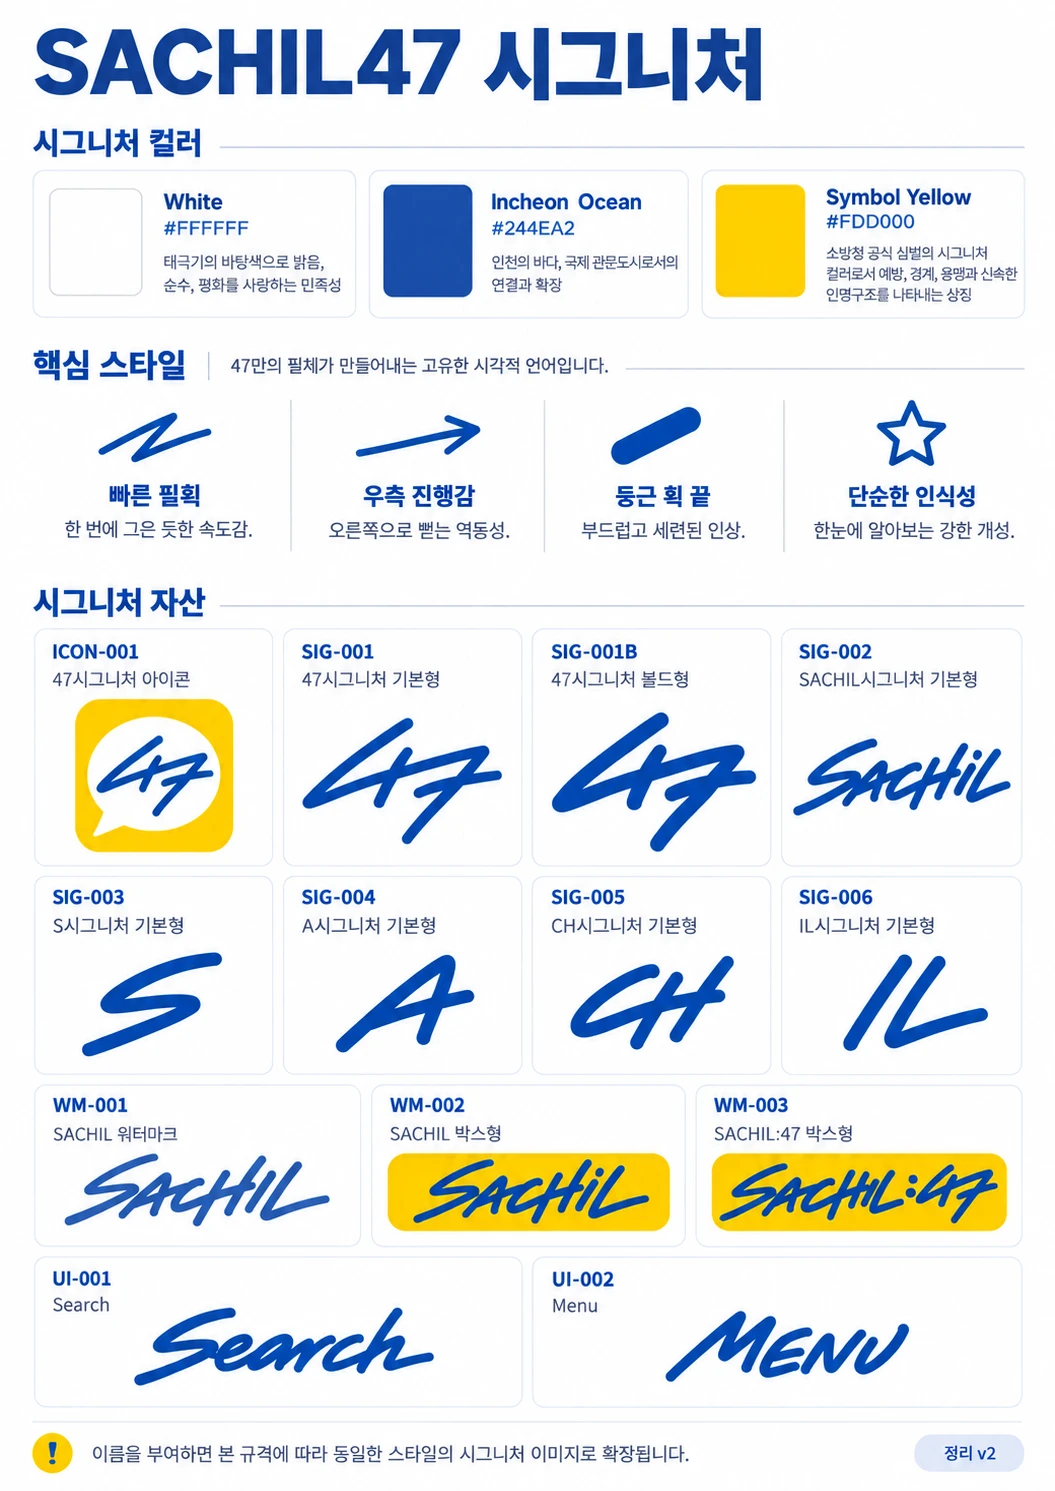
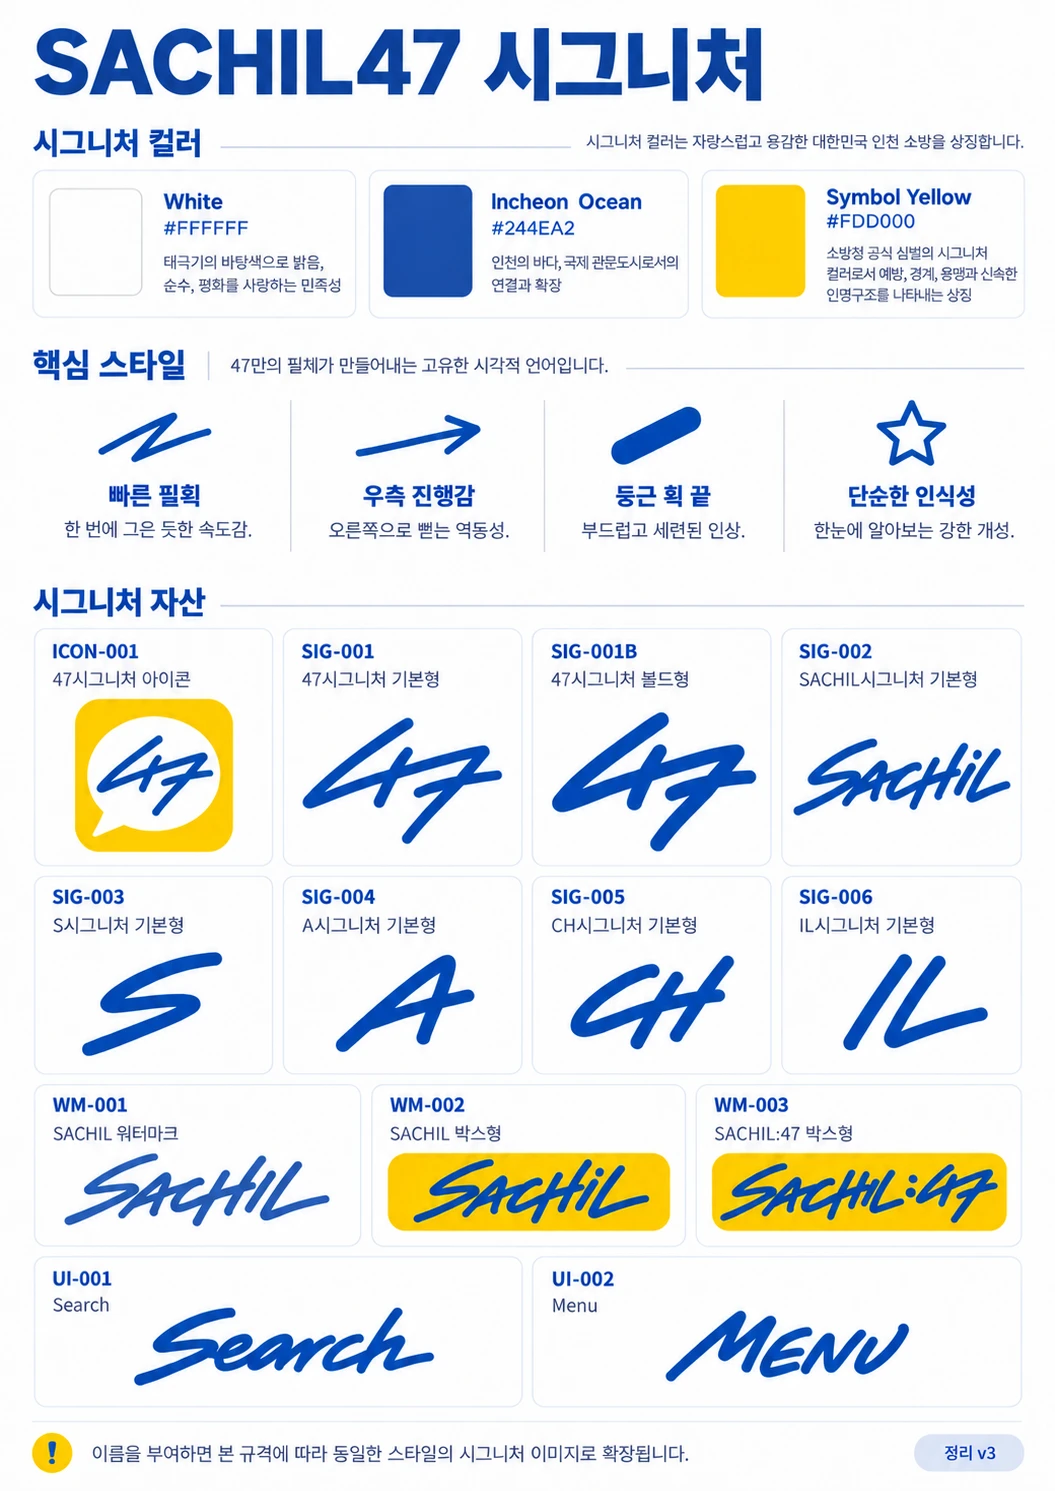
V69: 디브리핑룸 설명 두 줄, 첫 화면 심벌 가운데 확대, 시그니처 안내 v3
Claude-Session: https://claude.ai/code/session_011pmUhwU835k9FVhXoqAEpz

diff --git a/index.html b/index.html
@@ -683,7 +683,7 @@ footer b{color:var(--muted);font-weight:600}
 
 <footer>
   <div class="wrap">
-    <span><b>SACHIL</b> — Search · AI assistant · CHecklist · Incident Log · v68</span>
+    <span><b>SACHIL</b> — Search · AI assistant · CHecklist · Incident Log · v69</span>
     <span>인천소방학교 지휘역량강화센터(ICTC)</span>
   </div>
 </footer>
@@ -800,8 +800,9 @@ document.querySelectorAll('link[media="print"][href*="fonts.googleapis"]').forEa
   SECTIONS.forEach((s,i)=>{ s.icon = AS.sections[i] || ''; });
   // ---------- 업데이트 내역(메뉴 마지막 섹션) ----------
   // 반영할 때마다 맨 위에 한 줄 추가한다(CHANGELOG.md와 같은 내용). 바닥글·서버 APP_VERSION도 같은 번호로.
-  const APP_VER='V68', SRV_VER='2.1';
+  const APP_VER='V69', SRV_VER='2.1';
   const UPDATES=[
+    {v:'V69', d:'2026-10-17', t:['디브리핑룸 설명을 두 줄로: 익명으로 개선사항 도출 / 의견 청취로 지휘역량 강화','첫 화면 S·A·CH·IL 심벌을 박스 가운데 크게, 작은 설명 글씨는 뺐어요','메뉴 ‘SACHIL 시그니처’ 안내를 새 판(정리 v3)으로 바꿨어요']},
     {v:'V68', d:'2026-10-17', t:['위쪽에 디브리핑룸 바로가기 버튼(47망과 메뉴 사이)','47망·디브리핑룸 설명 추가: 첫 화면 박스, 입장 화면, 대화방 위 📌 한 줄(누르면 예시)','첫 화면 S·A·CH·IL 심벌을 크게, 이름을 Search · AI assistant · CHecklist · Incident Log로']},
     {v:'V67', d:'2026-10-17', t:['메뉴 ‘SACHIL 시그니처’에 시그니처 안내(컬러·핵심 스타일·시그니처 자산)를 넣었어요 — 누르면 크게 보기']},
     {v:'V66', d:'2026-10-17', t:['메뉴에 13번째 칸 ‘SACHIL 시그니처’를 만들었어요(내용은 준비 중) — 업데이트 내역은 계속 맨 마지막']},
@@ -874,7 +875,7 @@ document.querySelectorAll('link[media="print"][href*="fonts.googleapis"]').forEa
   { const u=SECTIONS.find(x=>x.slug==='updates'); if(u) u.icon=UPD_ICON; }
   { const g=SECTIONS.find(x=>x.slug==='signature'); if(g) g.icon='icons/icon-96.png'; }
   // SACHIL 시그니처(13번째 섹션) — 시그니처 안내 한 장(V67). 누르면 크게 보기
-  const SIG_ALT='SACHIL47 시그니처 안내. 시그니처 컬러: White #FFFFFF(태극기의 바탕색으로 밝음·순수·평화를 사랑하는 민족성), Incheon Ocean #244EA2(인천의 바다, 국제 관문도시로서의 연결과 확장), Symbol Yellow #FDD000(소방청 공식 심벌의 시그니처 컬러로서 예방·경계·용맹과 신속한 인명구조를 나타내는 상징). 핵심 스타일: 빠른 필획, 우측 진행감, 둥근 획 끝, 단순한 인식성. 시그니처 자산: ICON-001 47시그니처 아이콘, SIG-001 47 기본형, SIG-001B 47 볼드형, SIG-002 SACHIL 기본형, SIG-003 S, SIG-004 A, SIG-005 CH, SIG-006 IL, WM-001 SACHIL 워터마크, WM-002 SACHIL 박스형, WM-003 SACHIL:47 박스형, UI-001 Search, UI-002 Menu.';
+  const SIG_ALT='SACHIL47 시그니처 안내. 시그니처 컬러: White #FFFFFF(태극기의 바탕색으로 밝음·순수·평화를 사랑하는 민족성), Incheon Ocean #244EA2(인천의 바다, 국제 관문도시로서의 연결과 확장), Symbol Yellow #FDD000(소방청 공식 심벌의 시그니처 컬러로서 예방·경계·용맹과 신속한 인명구조를 나타내는 상징). 핵심 스타일: 빠른 필획, 우측 진행감, 둥근 획 끝, 단순한 인식성. 시그니처 컬러는 자랑스럽고 용감한 대한민국 인천 소방을 상징합니다. 시그니처 자산: ICON-001 47시그니처 아이콘, SIG-001 47 기본형, SIG-001B 47 볼드형, SIG-002 SACHIL 기본형, SIG-003 S, SIG-004 A, SIG-005 CH, SIG-006 IL, WM-001 SACHIL 워터마크, WM-002 SACHIL 박스형, WM-003 SACHIL:47 박스형, UI-001 Search, UI-002 Menu.';
   function renderSignature(panel,s){
     panel.innerHTML=`
       <div class="card sig-sheet">
@@ -2076,13 +2077,14 @@ document.querySelectorAll('link[media="print"][href*="fonts.googleapis"]').forEa
   // 방 설명(V68): 입장 화면에는 전부, 대화방 위에는 접히는 한 줄로
   const ROOM_INFO={
     net:{lead:'지휘·작전망으로 전달하기 어려운 내용은 47망을 이용하세요.', more:['예) 사칠망으로 현장지휘소, 방면, 대기장소 확인 바람!','예) 사칠망으로 상수도 배관망 공유하였으니 탱크차는 확인 바람!']},
-    deb:{lead:'익명으로 개선사항 도출 · 의견 청취로 지휘역량 강화', more:['현장에 참여했던 대원들은 익명으로 개선사항을 도출!','현장지휘관은 대원들의 의견을 청취하여 지휘역량을 강화!']}
+    deb:{lead:'익명으로 개선사항 도출\n의견 청취로 지휘역량 강화', more:['현장에 참여했던 대원들은 익명으로 개선사항을 도출!','현장지휘관은 대원들의 의견을 청취하여 지휘역량을 강화!']}
   };
-  const roomInfoHtml=kind=>{ const r=ROOM_INFO[kind]||ROOM_INFO.net; return `<div class="room-info"><p class="lead">${esc(kind==='deb'?r.more.join(' '):r.lead)}</p>${kind==='deb'?'':`<ul>${r.more.map(x=>`<li>${esc(x)}</li>`).join('')}</ul>`}</div>`; };
+  const nl=t=>esc(t).replace(/\n/g,'<br>');
+  const roomInfoHtml=kind=>{ const r=ROOM_INFO[kind]||ROOM_INFO.net; return `<div class="room-info"><p class="lead">${nl(r.lead)}</p><ul>${r.more.map(x=>`<li>${esc(x)}</li>`).join('')}</ul></div>`; };
   function addRoomNote(panel,kind){
     const cc=panel.querySelector('.chat .convo-card'); if(!cc||panel.querySelector('.room-note')) return;
     const r=ROOM_INFO[kind]||ROOM_INFO.net;
-    cc.insertAdjacentHTML('beforebegin',`<details class="room-note"><summary><span class="pin" aria-hidden="true">📌</span><span class="tx">${esc(r.lead)}</span></summary><ul>${r.more.map(x=>`<li>${esc(x)}</li>`).join('')}</ul></details>`);
+    cc.insertAdjacentHTML('beforebegin',`<details class="room-note${r.lead.includes('\n')?' two':''}"><summary><span class="pin" aria-hidden="true">📌</span><span class="tx">${nl(r.lead)}</span></summary><ul>${r.more.map(x=>`<li>${esc(x)}</li>`).join('')}</ul></details>`);
     const d=panel.querySelector('.room-note'); d.addEventListener('toggle',()=>{ if(window.__fitConvo) window.__fitConvo(); });
   }
   function renderChat(panel,kind){
@@ -2199,7 +2201,7 @@ document.querySelectorAll('link[media="print"][href*="fonts.googleapis"]').forEa
   // ---------- 첫 화면: 6개 박스(47망·디브리핑룸 / S·A / CH·IL) ----------
   const HUB=[
     {go:'chat', k:'47', y:true, t:'47망', d:'지휘·작전망으로 전하기 어려운 내용은 47망으로', ic:'<img src="icons/icon-96.png" alt="" width="40" height="40">'},
-    {go:'debrief', k:'DB', y:true, t:'디브리핑룸', d:'대원은 익명으로 개선사항 도출, 지휘관은 의견 청취', ic:'<svg viewBox="0 0 28 28" aria-hidden="true"><path d="M4 7.5C4 5.6 5.6 4 7.5 4h9C18.4 4 20 5.6 20 7.5v5c0 1.9-1.6 3.5-3.5 3.5H10l-4 3.5V16C4.9 15.6 4 14.2 4 12.5v-5Z" fill="#fff" stroke="#244EA2" stroke-width="2" stroke-linejoin="round"/><path d="M22 10.5c1.2.4 2 1.6 2 2.9v4.1c0 1.4-.9 2.6-2 3v3l-3.4-2.9H13c-1.3 0-2.4-.7-3-1.8" fill="none" stroke="#244EA2" stroke-width="2" stroke-linejoin="round"/></svg>'},
+    {go:'debrief', k:'DB', y:true, t:'디브리핑룸', d:'익명으로 개선사항 도출<br>의견 청취로 지휘역량 강화', ic:'<svg viewBox="0 0 28 28" aria-hidden="true"><path d="M4 7.5C4 5.6 5.6 4 7.5 4h9C18.4 4 20 5.6 20 7.5v5c0 1.9-1.6 3.5-3.5 3.5H10l-4 3.5V16C4.9 15.6 4 14.2 4 12.5v-5Z" fill="#fff" stroke="#244EA2" stroke-width="2" stroke-linejoin="round"/><path d="M22 10.5c1.2.4 2 1.6 2 2.9v4.1c0 1.4-.9 2.6-2 3v3l-3.4-2.9H13c-1.3 0-2.4-.7-3-1.8" fill="none" stroke="#244EA2" stroke-width="2" stroke-linejoin="round"/></svg>'},
     {go:'search', k:'S', t:'Search', d:'SOP·법령·교재·사례 찾기'},
     {go:'ai', k:'A', t:'AI assistant', d:'자료를 근거로 대화하듯 답변'},
     {go:'board', k:'CH', t:'CHecklist', d:'현재 시각·12단계 지휘 체크'},
@@ -2207,7 +2209,7 @@ document.querySelectorAll('link[media="print"][href*="fonts.googleapis"]').forEa
   ];
   const sigK=k=>['S','A','CH','IL'].includes(k)?`<i class="sg sg-${k}" role="img" aria-label="${k}"></i>`:k;   // 시그니처 심벌
   function renderHub(panel){
-    panel.innerHTML=`<nav class="hub" aria-label="SACHIL:47 첫 화면">${HUB.map(h=>`<a class="hub-box ${h.y?'chatbox':'sgbox'}" href="#${h.go}" data-hub="${h.go}"><span class="hk ${h.ic?'ic':'sgk'}">${h.ic||sigK(h.k)}</span><span class="ht">${h.t}</span><span class="hd">${h.d}</span></a>`).join('')}</nav>`;
+    panel.innerHTML=`<nav class="hub" aria-label="SACHIL:47 첫 화면">${HUB.map(h=>`<a class="hub-box ${h.y?'chatbox':'sgbox'}" href="#${h.go}" data-hub="${h.go}"><span class="hk ${h.ic?'ic':'sgk'}">${h.ic||sigK(h.k)}</span><span class="ht">${h.t}</span>${h.y?`<span class="hd">${h.d}</span>`:''}</a>`).join('')}</nav>`;
     panel.querySelectorAll('[data-hub]').forEach(a=>a.addEventListener('click',e=>{ e.preventDefault(); const t=a.dataset.hub; if(t==='search'){ q.value=''; syncClear(); go('search',''); } else go(t); rootScrollTo(0); }));
     fitHub();
   }
@@ -2875,10 +2877,12 @@ body.hubview footer{display:none}
 .hub-box.chatbox .hd{color:#3a3000}
 @media (min-width:600px){ .hub{gap:16px} .hub-box{padding:20px} .hub-box .ht{font-size:21px} .hub-box .hd{font-size:13.5px} }
 /* V68: S·A·CH·IL 심벌 크게(배경 상자 없이 시그니처만) */
-.hub-box .hk.sgk{min-width:0;height:auto;padding:0;background:transparent;top:16px;left:16px}
-.hub-box.sgbox .ht{margin-top:70px;font-family:var(--font,inherit);letter-spacing:-.005em}
-@media (min-width:600px){ .hub-box .hk .sg{height:56px} .hub-box.sgbox .ht{margin-top:84px} }
-@media (max-height:680px){ .hub-box .hk .sg{height:36px} .hub-box.sgbox .ht{margin-top:50px} }
+.hub-box.sgbox{justify-content:center;align-items:center;text-align:center;gap:12px}   /* V69: 심벌을 박스 가운데 크게 */
+.hub-box .hk.sgk{position:static;min-width:0;height:auto;padding:0;background:transparent}
+.hub-box.sgbox .hk .sg{height:68px}
+.hub-box.sgbox .ht{margin-top:0;letter-spacing:-.005em}
+@media (min-width:600px){ .hub-box.sgbox .hk .sg{height:88px} }
+@media (max-height:680px){ .hub-box.sgbox .hk .sg{height:50px} .hub-box.sgbox{gap:6px} .hub-box.sgbox .ht{margin-top:0} }
 /* 방 설명 */
 .room-info{margin:10px 0 12px;padding:12px 14px;border-radius:14px;background:var(--navy-soft);color:var(--navy);text-align:left}
 .room-info .lead{margin:0;font-weight:700;font-size:14.5px;line-height:1.5}
@@ -2887,7 +2891,7 @@ body.hubview footer{display:none}
 .room-note summary{display:flex;align-items:center;gap:6px;padding:8px 12px;cursor:pointer;list-style:none;font-weight:700;min-height:36px}
 .room-note summary::-webkit-details-marker{display:none}
 .room-note summary .tx{flex:1;min-width:0;overflow:hidden;text-overflow:ellipsis;white-space:nowrap}
-.room-note[open] summary .tx{white-space:normal}
+.room-note[open] summary .tx,.room-note.two summary .tx{white-space:normal}
 .room-note summary::after{content:"⌄";flex:none;font-size:15px;transition:transform .15s}
 .room-note[open] summary::after{transform:rotate(180deg)}
 .room-note ul{margin:0;padding:0 12px 10px 34px;display:grid;gap:3px;color:var(--fg);font-size:13px;line-height:1.45}

diff --git a/server/sachil_server.py b/server/sachil_server.py
@@ -44,7 +44,7 @@ LIB_TYPES = {  # 확장자: (MIME, 브라우저에서 바로 열기)
     '.zip': ('application/zip', False),
 }
 VERSION = '2.1'
-APP_VERSION = 'V68'
+APP_VERSION = 'V69'
 
 CATS = ['디브리핑']   # 구분은 V17에서 없앰(내부 호환용 값 하나만 유지)
 MAX_UPLOAD = 10 * 1024 * 1024          # 파일 1개 10MB

diff --git a/CHANGELOG.md b/CHANGELOG.md
@@ -1,7 +1,7 @@
 # SACHIL:47 버전 기록 (V1 ~ V55)
 
 인천소방학교 지휘역량강화센터 교육 플랫폼 「SACHIL:47」의 버전별 수정 내용입니다.
-정리일: 2026-10-17 · 현재 배포본: **앱 V68 · 서버 2.1** (github.io + `server/SACHIL47-server-update.zip`)
+정리일: 2026-10-17 · 현재 배포본: **앱 V69 · 서버 2.1** (github.io + `server/SACHIL47-server-update.zip`)
 
 **근거 표기**
 - **패치**: 버전마다 남은 수정 스크립트·작업 기록 기준 (가장 정확)
@@ -96,6 +96,7 @@
 | V57 | 첫 화면 6개 박스(47망·디브리핑룸 / S·A / CH·IL), 47망과 디브리핑룸을 두 대화방으로 분리(서버 2.1) | PR #38 |
 | V58 | 보고서 'AI 사이트로 작성': API 키 없이 ChatGPT·Claude·Gemini 웹에 요청문 복사·사이트 열기 → 결과 붙여넣어 AI 작성본으로 저장(출처 표시) | PR #39 |
 | V59 | 47 시그니처 아이콘(노란 바탕·흰 말풍선·파란 47)으로 앱 아이콘·상단 47 버튼·첫 화면 교체, 시그니처 컬러(심벌 옐로 #FDD000·화이트·인천 오션 #244EA2) 적용 | PR #40 |
+| V69 | 디브리핑룸 설명 두 줄(첫 화면 박스·입장 화면·대화방 📌). 첫 화면 S·A·CH·IL 심벌 박스 가운데 확대(68/88/50px)·설명 글씨 삭제. 시그니처 안내 이미지 정리 v3로 교체 | PR #50 |
 | V68 | 상단 디브리핑룸 바로가기(#dbBtn, 47망·메뉴 사이). 47망('지휘·작전망으로 전달하기 어려운 내용…' + 예시 2)·디브리핑룸(익명 개선사항 도출·의견 청취) 설명을 첫 화면 박스·입장(동의) 화면·대화방 상단 접이식 📌에 표시. 첫 화면 S·A·CH·IL 심벌 확대(46/56px, 상자 없음)와 이름 영문화 | PR #49 |
 | V67 | 'SACHIL 시그니처' 섹션 내용: 시그니처 안내 이미지(img/signature.webp, 정리 v2) 표시 + 누르면 라이트박스, 이미지 속 글을 alt로 제공 | PR #48 |
 | V66 | 메뉴 13번째 섹션 'SACHIL 시그니처'(slug `signature`, 앱 안 섹션·local) 틀 추가, 내용 준비중. 업데이트 내역은 항상 마지막 | PR #47 |
